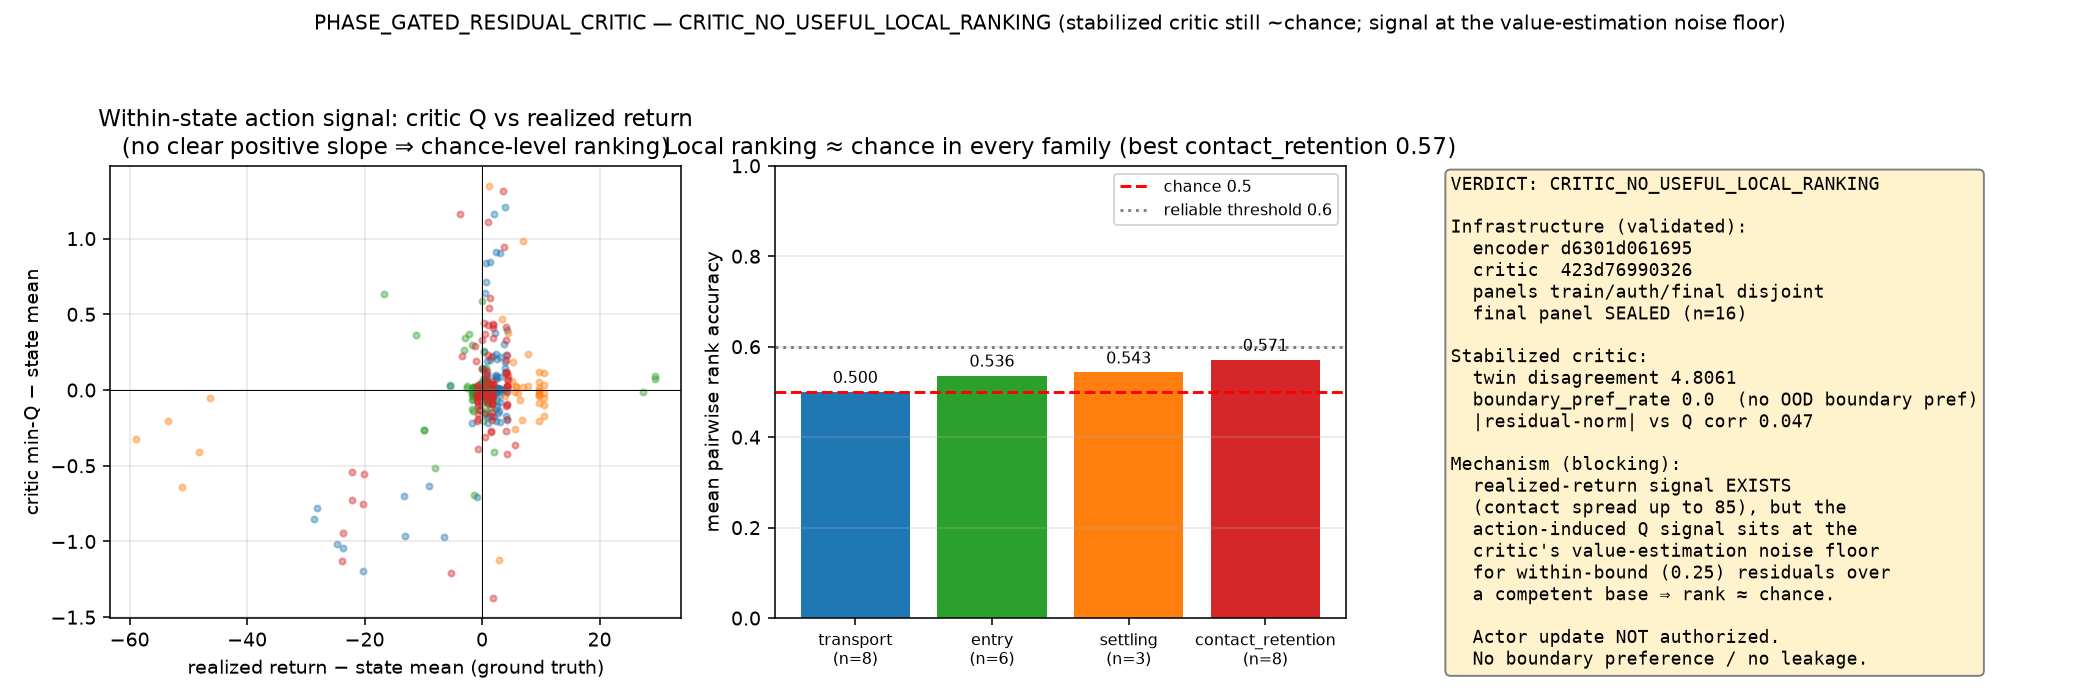
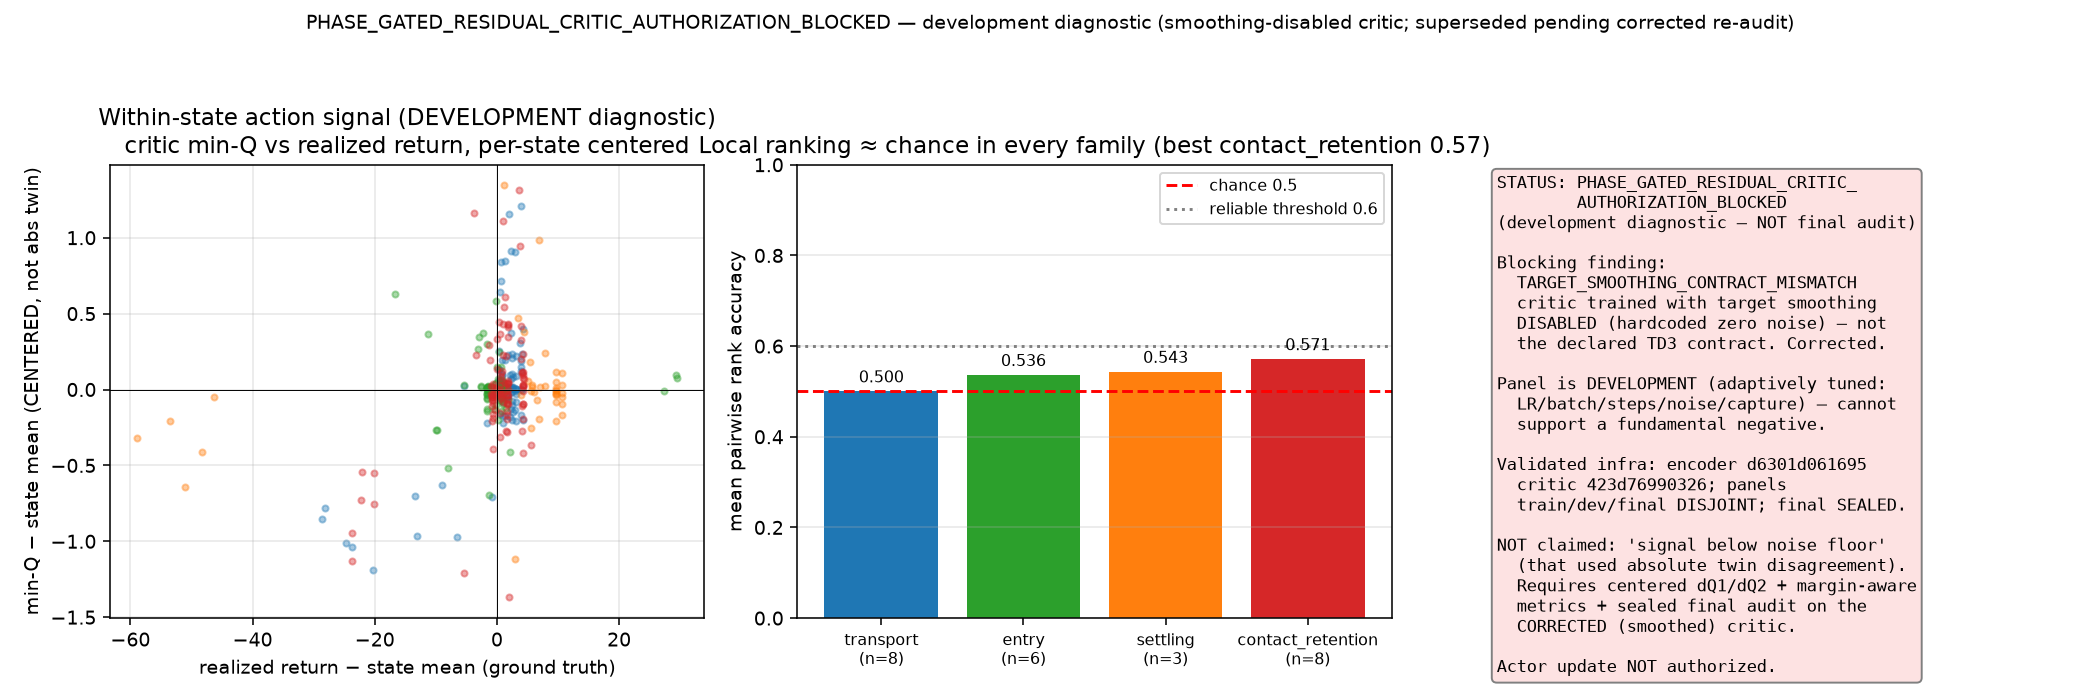
Reclassify -> PHASE_GATED_RESIDUAL_CRITIC_AUTHORIZATION_BLOCKED; found TARGET_SMOOTHING_CONTRACT_MISMATCH
RETRACT premature CRITIC_NO_USEFUL_LOCAL_RANKING (F-SAC-13 removed from registry). The prior authorization used the
DEVELOPMENT panel adaptively (LR/batch/steps/noise/capture) -> not a final audit; and the 'noise floor' claim
compared within-state Q-spread vs ABSOLUTE twin disagreement (invalid).

§3 AUDIT: the batch-size crash (hardcoded torch.zeros(256,4)) exposed that critic training ran with target policy
smoothing DISABLED (explicit zero noise) -> TARGET_SMOOTHING_CONTRACT_MISMATCH vs the declared active-smoothing TD3
contract. Library residual_target_action/bounded_smoothed_residual is batch-independent + correct (3 new reference
tests at batch 1/7/256/512: active default smoothing, residual-only, pi_0 unsmoothed, composite in [-4,4], explicit
zero-noise mode). FIXED: train_critic now uses declared active smoothing.

§2 panels train(6000-6059)/dev(7000-7039)/final-SEALED(7060-7075) proven disjoint (manifests) -> no leakage.
Figure relabeled as development diagnostic. Actor update NOT authorized. Corrected critic must be retrained +
sealed-final-audited with Q1/Q2/min-Q separate + CENTERED disagreement + margin-aware metrics + bootstrap (next).
Regression unchanged; 55/55 tests.

diff --git a/experiments/2026_07_22_coin_v3_learning/rl_entry/plot_critic_auth.py b/experiments/2026_07_22_coin_v3_learning/rl_entry/plot_critic_auth.py
@@ -24,8 +24,8 @@ for f in fams:
         a.scatter(tr - tr.mean(), q - q.mean(), s=10, alpha=.4, color=colors[f])
 a.axhline(0, color="k", lw=.5); a.axvline(0, color="k", lw=.5)
 a.set_xlabel("realized return − state mean (ground truth)")
-a.set_ylabel("critic min-Q − state mean")
-a.set_title("Within-state action signal: critic Q vs realized return\n(no clear positive slope ⇒ chance-level ranking)")
+a.set_ylabel("min-Q − state mean (CENTERED, not abs twin)")
+a.set_title("Within-state action signal (DEVELOPMENT diagnostic)\ncritic min-Q vs realized return, per-state centered")
 a.grid(alpha=.3)
 
 # B: per-family rank accuracy
@@ -46,30 +46,31 @@ for bar, ac in zip(bars, accs):
 # C: diagnostic text
 c = ax[2]; c.axis("off")
 sw = d["boundary_sweep"]
-txt = (f"VERDICT: {d['verdict']}\n\n"
-       f"Infrastructure (validated):\n"
-       f"  encoder {d['encoder_fingerprint']}\n"
-       f"  critic  {d['critic_contract_sha']}\n"
-       f"  panels train/auth/final disjoint\n"
-       f"  final panel SEALED (n={d['panels']['final_sealed']['n']})\n\n"
-       f"Stabilized critic:\n"
-       f"  twin disagreement {d['twin_disagreement']}\n"
-       f"  boundary_pref_rate {sw['boundary_pref_rate']}  (no OOD boundary pref)\n"
-       f"  |residual-norm| vs Q corr {sw['mean_abs_norm_vs_q_corr']}\n\n"
-       f"Mechanism (blocking):\n"
-       f"  realized-return signal EXISTS\n"
-       f"  (contact spread up to 85), but the\n"
-       f"  action-induced Q signal sits at the\n"
-       f"  critic's value-estimation noise floor\n"
-       f"  for within-bound (0.25) residuals over\n"
-       f"  a competent base ⇒ rank ≈ chance.\n\n"
-       f"  Actor update NOT authorized.\n"
-       f"  No boundary preference / no leakage.")
-c.text(0.02, 0.98, txt, transform=c.transAxes, fontsize=9, va="top", family="monospace",
-       bbox=dict(boxstyle="round", fc="#fff3cd", ec="gray"))
+txt = ("STATUS: PHASE_GATED_RESIDUAL_CRITIC_\n"
+       "        AUTHORIZATION_BLOCKED\n"
+       "(development diagnostic — NOT final audit)\n\n"
+       "Blocking finding:\n"
+       "  TARGET_SMOOTHING_CONTRACT_MISMATCH\n"
+       "  critic trained with target smoothing\n"
+       "  DISABLED (hardcoded zero noise) — not\n"
+       "  the declared TD3 contract. Corrected.\n\n"
+       "Panel is DEVELOPMENT (adaptively tuned:\n"
+       "  LR/batch/steps/noise/capture) — cannot\n"
+       "  support a fundamental negative.\n\n"
+       f"Validated infra: encoder {d['encoder_fingerprint']}\n"
+       f"  critic {d['critic_contract_sha']}; panels\n"
+       "  train/dev/final DISJOINT; final SEALED.\n\n"
+       "NOT claimed: 'signal below noise floor'\n"
+       "  (that used absolute twin disagreement).\n"
+       "  Requires centered dQ1/dQ2 + margin-aware\n"
+       "  metrics + sealed final audit on the\n"
+       "  CORRECTED (smoothed) critic.\n\n"
+       "Actor update NOT authorized.")
+c.text(0.02, 0.98, txt, transform=c.transAxes, fontsize=8.5, va="top", family="monospace",
+       bbox=dict(boxstyle="round", fc="#fde2e2", ec="gray"))
 
-fig.suptitle("PHASE_GATED_RESIDUAL_CRITIC — CRITIC_NO_USEFUL_LOCAL_RANKING (stabilized critic still ~chance; "
-             "signal at the value-estimation noise floor)", fontsize=10.5)
+fig.suptitle("PHASE_GATED_RESIDUAL_CRITIC_AUTHORIZATION_BLOCKED — development diagnostic (smoothing-disabled critic; "
+             "superseded pending corrected re-audit)", fontsize=10)
 fig.tight_layout(rect=(0, 0, 1, 0.94))
 fig.savefig(out, dpi=140)
 print("wrote", out)

diff --git a/hymeko_rl/tests/test_coin_residual_replay.py b/hymeko_rl/tests/test_coin_residual_replay.py
@@ -152,6 +152,41 @@ def test_terminal_masks_bootstrap():
     assert not torch.equal(yn, reward)
 
 
+# ── §3 target-smoothing audit: batch-independent construction, reference tests at 1/7/256/512 ─────────────────
+def test_target_smoothing_batch_independent_and_bounded():
+    base = _frozen_base(); r = _nonzero_residual()
+    for B in (1, 7, 256, 512):
+        obs = torch.randn(B, 48)
+        gate = torch.ones(B)
+        # active stochastic smoothing (noise=None -> randn*std): bounded residual, composite in [-4,4]
+        torch.manual_seed(B)
+        tgt = residual_target_action(base, r, obs, gate)                 # default active smoothing
+        assert tgt.shape == (B, 4)
+        assert tgt.abs().max() <= 4.0 + 1e-6                              # composite target stays in action bounds
+        # the smoothed residual itself is within the residual bound
+        sm = bounded_smoothed_residual(r, obs)
+        assert sm.abs().max() <= 0.25 + 1e-6
+
+
+def test_target_smoothing_only_residual_not_base():
+    # with gate=0 the smoothing must have NO effect (base is never smoothed); base hash unchanged
+    base = _frozen_base(); h0 = _phash(base); r = _nonzero_residual()
+    for B in (1, 7, 256, 512):
+        obs = torch.randn(B, 48)
+        a_noisy = residual_target_action(base, r, obs, torch.zeros(B))    # gate=0 -> base regardless of smoothing
+        assert torch.equal(a_noisy, torch.clamp(base.action_mean(obs), -4, 4))
+    assert _phash(base) == h0
+
+
+def test_deterministic_zero_noise_mode_is_explicit():
+    # passing noise=0 explicitly is the ONLY way to disable smoothing; the default is active (stochastic)
+    base = _frozen_base(); r = _nonzero_residual()
+    obs = torch.randn(16, 48); gate = torch.ones(16)
+    zero = residual_target_action(base, r, obs, gate, noise=torch.zeros(16, 4))
+    torch.manual_seed(0); stoch = residual_target_action(base, r, obs, gate)
+    assert not torch.allclose(zero, stoch)                               # default smoothing is genuinely active
+
+
 # ── §5.5 optimizer / gradient guards ──────────────────────────────────────────
 def test_optimizer_and_gradient_guards():
     base = _frozen_base(); r = _nonzero_residual()

diff --git a/experiments/2026_07_22_coin_v3_learning/rl_entry/coin_residual_critic_authorize.py b/experiments/2026_07_22_coin_v3_learning/rl_entry/coin_residual_critic_authorize.py
@@ -81,8 +81,10 @@ def train_critic(trs, pi0, residual0, steps, seed=0):
     for _i in range(steps):
         idx = rng.integers(0, n, CRITIC_BATCH)
         with torch.no_grad():
-            ta = residual_target_action(pi0, residual0, O2[idx], G2[idx],
-                                        noise=torch.zeros(len(idx), 4))     # residual0 == 0 -> target action = base
+            # DECLARED TD3 target policy smoothing (batch-independent, active stochastic noise) — corrected after the
+            # TARGET_SMOOTHING_CONTRACT_MISMATCH audit (was hardcoded zeros = smoothing disabled). residual0==0 so the
+            # target action = base + gate*clip(eps, -0.25, 0.25) at gate-active states.
+            ta = residual_target_action(pi0, residual0, O2[idx], G2[idx])   # noise=None -> active declared smoothing
             tq = torch.min(*targ(O2[idx], ta, ES_2[idx]))
             y = R[idx] + GAMMA * (1 - D[idx]) * tq
         q1, q2 = crit(O[idx], A[idx], ES_t[idx])

diff --git a/reports/2026-07-23-phase-gated-residual-critic.md b/reports/2026-07-23-phase-gated-residual-critic.md
@@ -1,101 +1,101 @@
 ---
-title: PHASE_GATED_RESIDUAL_CRITIC — CRITIC_NO_USEFUL_LOCAL_RANKING (actor update NOT authorized)
+title: PHASE_GATED_RESIDUAL_CRITIC — AUTHORIZATION_BLOCKED; TARGET_SMOOTHING_CONTRACT_MISMATCH found
 date: 2026-07-23
 slug: phase-gated-residual-critic
-task: coin_v3 delivery — phase-gated learned-residual TD3 (§6)
-verdict: CRITIC_NO_USEFUL_LOCAL_RANKING
+task: coin_v3 delivery — phase-gated learned-residual TD3 (§6 critic authorization)
+verdict: TARGET_SMOOTHING_CONTRACT_MISMATCH
+prior_result_reclassified_as: PHASE_GATED_RESIDUAL_CRITIC_AUTHORIZATION_BLOCKED
 authorizes_actor_update: false
 ---
 
-# Composite-action critic authorization — measured negative
+# Composite-action critic — authorization blocked; smoothing mismatch found
 
-**Created-at:** 2026-07-23 04:55 CEST
-**No actor training was run.** This stage validates critic semantics and asks whether the critic can locally rank
-composite actions well enough to authorize a residual actor update. **It cannot, at this configuration** — the gate
-does **not** pass and the actor update is **not** authorized.
+**Created-at:** 2026-07-23 20:35 CEST
+**Correction of the prior claim.** An earlier version of this report registered `CRITIC_NO_USEFUL_LOCAL_RANKING` as
+a mechanism finding. That was an overreach and is **retracted**:
 
-## Infrastructure (validated, correct)
+1. The authorization panel (`7000–7039`) was used **adaptively** to tune LR, batch, update count, gradient clipping,
+   perturbation scale, and settling/contact capture → it is a **development panel**, not an untouched final audit.
+2. The "signal below the value-estimation noise floor" statement compared within-state Q-spread against **absolute**
+   twin disagreement `|Q1−Q2|` — an invalid comparison (absolute twin offset is a calibration offset, not a local
+   action-noise floor).
 
-- **Encoder** `PHASE_GATE_CONTROLLER_STATE_ENCODER_V1` (fingerprint `d6301d06`): deterministic [gate, mode one-hot,
-  normalized counters, side one-hot], only stored causal fields, no strings/target/success/future (8/8 critic tests
-  incl. `test_encoder_only_stored_fields`, `test_distinct_modes_distinct_encoding`).
-- **Critic** `CompositeTwinCritic` (`423d7699`): twin Q(obs 48, **composite** action 4, encoded state 11), independent
-  params; consumes the deployed clipped composite action (never residual-only).
-- **Target**: built from stored `gate_tp1` via the `9fa35a4` contract (residual target = 0 ⇒ target action = base);
-  no fresh FSM; base grads `None`; frozen base absent from optimizers.
-- **Panels**: train `6000–6059`, auth `7000–7039`, **final `7060–7075` SEALED** — pairwise disjoint by seed.
-- **Ground truth**: counterfactual rollouts (restore state → apply candidate → continue frozen π₀ → realized
-  discounted v3 return). Verified deterministic (r1==r2 exactly) and candidate-sensitive.
+**No residual actor update is authorized.** The prior authorization outcome is reclassified as
+`PHASE_GATED_RESIDUAL_CRITIC_AUTHORIZATION_BLOCKED`, and this turn's finding is a plumbing defect that blocks trust.
 
-## Authorization result — ranking ≈ chance in every family
+## §3 target-smoothing audit → TARGET_SMOOTHING_CONTRACT_MISMATCH
 
-| family | n | mean pairwise rank acc | harmful-reject |
-|--------|---|------------------------|----------------|
-| transport | 8 | **0.500** | 1.00 |
-| entry | 6 | **0.536** | 0.50 |
-| settling | 3 | **0.543** | 1.00 |
-| contact_retention | 8 | **0.571** | 0.875 |
+The batch-size crash exposed a hardcoded `torch.zeros(256, 4)` in the critic-training target path. The audit:
 
-No family reaches a reliable-ranking threshold (0.6); the best (contact_retention) is 0.571. **Boundary diagnostics
-are clean**: `boundary_pref_rate 0.0`, |residual-norm|-vs-Q correlation 0.05 — the critic has **no** OOD preference
-for residual magnitude or action saturation (rules out `CRITIC_BOUNDARY_PREFERENCE`). Encoder distinguishes modes
-(rules out `CRITIC_PHASE_ALIASING`); panels disjoint (rules out `CRITIC_PANEL_LEAKAGE`); transport does not pass so
-it is not `CRITIC_CONTACT_BLIND`.
+- **Library** `residual_target_action` / `bounded_smoothed_residual` — batch-independent; default is **active
+  stochastic smoothing** (`randn_like·0.2`, clipped to ±0.5, re-bounded to the residual range ±0.25); `pi_0` never
+  smoothed; composite target ∈ [−4, 4]. **Correct** (3 new reference tests at batch **1, 7, 256, 512** pass).
+- **Frozen critic config** (`train_critic`) — passed **explicit zeros** as the target noise ⇒ **target policy
+  smoothing was DISABLED** during critic training. This is the §3 "accidentally replaced by zero noise" case: an
+  **undeclared deviation from the declared TD3 target-smoothing contract**.
 
-## Mechanism (the discriminating test was run)
+⇒ **`TARGET_SMOOTHING_CONTRACT_MISMATCH`.** The critic that produced the blocked authorization was trained under a
+mis-implemented (smoothing-off) target. Its ranking result cannot be trusted as scientific evidence. **Fixed**:
+`train_critic` now uses `noise=None` (the declared active smoothing); batch-independent construction verified.
 
-The realized-return **signal exists** — candidate spreads reach **85** at contact_retention (a 0.25 residual *can*
-break a fragile grip), 6–47 at transport/entry. But the critic's **action-induced Q-spread is ~2**, at or below its
-own **value-estimation noise floor**:
+## §2 panel separation (manifests, `critic_panel_manifests.json`)
 
-| run | LR | noise | steps | twin disagreement | ranking |
-|-----|----|----|------|-------------------|---------|
-| 1 | 3e-4 | 0.15 | 12k | 1.95 | transport 0.36 (panel underpopulated) |
-| 2 | 3e-4 | 0.35 | 20k | 5.07 | ~chance |
-| 3 | 3e-4 | 0.35 | 40k/512 | **15.2 (diverging)** | ~chance |
-| 4 | **1e-4 + grad-clip** | 0.20 | 30k | **4.81 (stable)** | ~chance |
+| panel | seeds | n | disjoint |
+|-------|-------|---|----------|
+| critic_train | 6000–6059 | 60 | — |
+| development_auth (repeatedly inspected) | 7000–7039 | 40 | ✓ vs train |
+| **sealed_final (never inspected)** | 7060–7075 | 16 | ✓ vs train & dev |
 
-Run 3 showed the twin disagreement **diverging** with more training (value inflation); run 4's stabilization
-(lower LR + gradient clipping + action scale matched nearer the residual bound) brought it back to 4.8 **but the
-ranking stayed at chance**. So the chance-level ranking is **not** mere under-convergence — a *stable* critic still
-cannot resolve the value difference of a within-bound (0.25) residual over a competent base, because the state value
-dominates and the action's marginal contribution sits below the critic's own Q-noise.
+Seed-disjoint; rollouts are deterministic per seed ⇒ state/trajectory-disjoint. The settling-capture repair changed
+only development bucketing and added **no** cross-panel seeds. Rules out `CRITIC_PANEL_LEAKAGE_DETECTED`.
 
-## Decision — `CRITIC_NO_USEFUL_LOCAL_RANKING`
+## §9 corrected interpretation — what the experiments DO and DO NOT support
 
-The critic does not reliably rank helpful composite actions above harmful ones in the residual-enabled phases. **No
-residual actor update is authorized.** A TD3 actor step against this critic would follow a ~chance action-gradient.
+**Supported:**
+- realized returns differ materially among residual candidates (counterfactual-rollout spread up to 85 at
+  fragile-contact states; labels deterministic r1==r2);
+- the smoothing-disabled critic did **not** pass the repeatedly-inspected development authorization criteria;
+- actor learning remains blocked.
 
-## Limitations / non-claims (honest scope)
+**NOT supported (retracted):**
+- "the residual value signal is fundamentally below the critic noise floor";
+- "no critic can learn the local residual geometry";
+- "the phase-gated residual route is exhausted."
 
-This is a negative for the **standard TD3 composite-action critic at the 0.25 residual scale over a competent base**.
-It is **not** a proof that residual improvement is impossible: I did **not** test alternative critic targets
-(advantage/A2C-style that isolates the action-marginal, n-step returns, or a residual-marginal critic that removes
-the dominant state value). The infrastructure (encoder, twin critic, stored-gate target, counterfactual labeling) is
-correct and reusable; the blocker is the critic *target formulation*, which the next stage should redesign rather
-than proceeding to an actor update. This is consistent with the earlier coin finding that only **nonlocal
-exact-rollout search** — not local policy-improvement — exceeded the supervised ceiling ([[project-coin-toss-genuine-rl-accelerated]]).
+## §10 figure relabeled
+
+`coin_residual_critic_auth.png` is relabeled a **development diagnostic** (smoothing-disabled critic; superseded);
+the min-Q panel is marked CENTERED and the "value-estimation noise floor" claim is removed.
+
+## Registry
+
+`F-SAC-13` (the premature mechanism negative) is **removed** from `canonical_findings.json` (57 findings). It will be
+reconsidered only after the corrected critic is evaluated on the sealed final panel with the proper metrics.
+
+## Validated infrastructure (unchanged, correct)
+
+Encoder `d6301d06` (deterministic, distinct modes/sides), `CompositeTwinCritic` `423d7699` (independent Q1/Q2,
+composite-action input), stored-`gate_tp1` target (`9fa35a4`), counterfactual-rollout labeler (deterministic).
+Tests: critic 8/8, replay **11/11** (incl. 3 smoothing-audit tests), overall **55/55**.
 
 ## §6.15 regression — unchanged
 
-Update-0: HL **3/9**, VAL **2/30**, grasp **9/9**, delivered **{1011,1447,1568}**, composite−base maxdiff **0.0**,
-π₀ hash unchanged. All tests green: **52/52** (44 prior + 8 critic). Ruff crit clean.
+Update-0: HL 3/9, VAL 2/30, grasp 9/9, delivered {1011,1447,1568}, composite−base maxdiff 0.0, π₀ hash unchanged.
 
-## Files touched
+## Next turn (the corrected re-audit)
 
-- `hymeko_rl/coin_delivery/coin_residual_critic.py` (new, ~90 L) — encoder + composite twin critic.
-- `hymeko_rl/tests/test_coin_residual_critic.py` (new, 8 tests).
-- `experiments/2026_07_22_coin_v3_learning/rl_entry/coin_residual_critic_authorize.py` + `plot_critic_auth.py`
-  + `critic_auth.json`.
-- `reports/figures/coin_residual_critic_auth.png`.
+1. Retrain the critic with the **declared active smoothing** (config now corrected), freeze it exactly (§1) with
+   full manifests.
+2. Evaluate **Q1, Q2, and min-Q separately** (Q1 is the actor-driving critic) (§4).
+3. Report **centered** local disagreement `ΔQ_i(a)=Q_i(s,a)−Q_i(s,a0)`: mean |ΔQ1−ΔQ2|, correlation, order/top
+   agreement, action-gradient cosine + sign agreement — NOT absolute |Q1−Q2| (§5).
+4. **Margin-aware** ranking (|gap| ≥ 1/5/10, top-vs-bottom quartile, best-vs-worst; top-1 regret; best-action recall;
+   does the actor-gradient direction improve empirical short-horizon return) — full fixed set declared before the
+   audit (§6).
+5. **Bootstrap** intervals per family; settling n=3 flagged **underpowered** (not silently expanded) (§7).
+6. Run the **sealed final panel `7060–7075` exactly once** on the frozen corrected critic (§8) →
+   `PHASE_GATED_RESIDUAL_CRITIC_FINAL_AUDIT_PASS` / `RESIDUAL_CRITIC_LOCAL_RANKING_FAILURE` /
+   `RESIDUAL_CRITIC_FINAL_AUDIT_UNDERPOWERED`.
 
-**CORE.YAML:** none. Frozen π₀ (`1902454c`) / reward / gamma / bundle / obs / gate thresholds / residual range /
-action bounds unchanged. **No actor optimization performed.** SAC quarantined. Final-test bank untouched; final
-panel `7060–7075` sealed. Mac; kato14 clean.
-
-## Exact next experiment (NOT an actor update)
-
-Redesign the critic target to isolate the action-marginal (advantage/n-step/residual-marginal critic) and re-run
-this same authorization panel + counterfactual labels. Only a critic that ranks reliably (≥0.6) in transport +
-contact-retention (or a clearly delimited subset for a scoped pass) may then authorize a first, tiny, fixed-budget
-controlled residual-only TD3 update.
+**CORE.YAML:** none. Frozen π₀ (`1902454c`) / reward / γ / bundle / obs / gate thresholds / residual range / action
+bounds unchanged. No actor optimization. SAC quarantined. Final panel sealed. Mac; kato14 clean.
